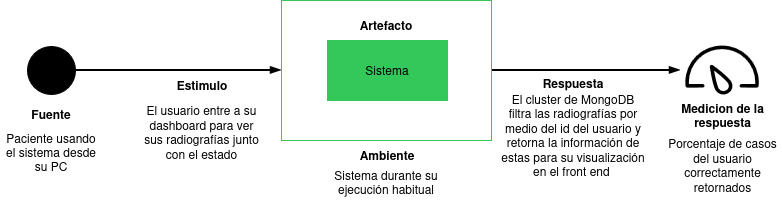
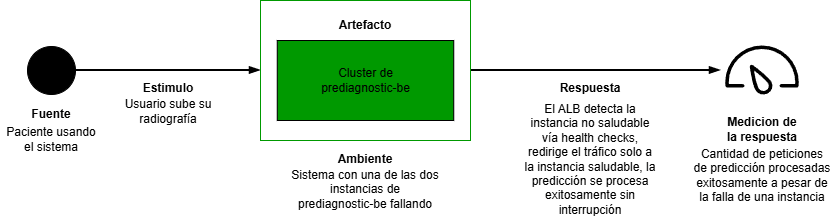
Cluster scenario fixed

diff --git a/p4/README.md b/p4/README.md
@@ -637,7 +637,7 @@ Tactic: Redundant spare
 
 **Applied Pattern:** Replication Pattern (Hot Spare)
 
-**Scenario 2: Cluster Pattern**
+**Scenario 2: Cluster Pattern (Active-Active)**
 
 <div align="center">
 
@@ -646,14 +646,14 @@ Tactic: Redundant spare
 </div>
 
 **Description:**
-- **Source (Fuente):** Patient using the system from his PC
-- **Stimulus (Estímulo):** User enters to his dashboard to see his radiographies and their states
-- **Artifact (Artefacto):** The system
-- **Environment (Ambiente):** System during the normal execution
-- **Response (Respuesta):** The MongoDB cluster filters the radipgraphies by user's id and returns the information to visualize it in the front end
-- **Response Measure (Medición de la respuesta):** Percentage of correctly returned cases
+- **Source (Fuente):** Patient using the application
+- **Stimulus (Estímulo):** User uploads their chest X-ray for pneumonia diagnosis while one of the two prediagnostic-be instances is down
+- **Artifact (Artefacto):** prediagnostic-be cluster (2 ECS Fargate tasks)
+- **Environment (Ambiente):** System with one of two prediagnostic-be instances failing.
+- **Response (Respuesta):** ALB detects unhealthy instance, routes traffic only to healthy instance, ECS launches replacement task, ML prediction processed successfully without user interruption
+- **Response Measure (Medición de la respuesta):** Number of prediction requests processed successfully despite single instance failure.
 
-**Applied Pattern:** Cluster Pattern
+**Applied Pattern:** Cluster Pattern (Active-Active)
 
 ##### **Scenario 3: Load Balancer with Removal From Service Tactic implementend**
 
@@ -691,23 +691,7 @@ Tactic: Reconfiguration
 
 **Applied Pattern:** Service Discovery Pattern
 
-**Scenario 5: Cluster pattern**
 
-<div align="center">
-
-![Service Discovery Pattern](./images/Copia%20de%20Escenario%20-%20cluster.png)
-
-</div>
-
-**Description:**
-- **Source (Fuente):** User using the aplication
-- **Stimulus (Estímulo):** User uploads a x-ray
-- **Artifact (Artefacto):** The system
-- **Environment (Ambiente):** The system with one of its prediagnostic-be nodes down
-- **Response (Respuesta):** The system works correctly with the upload of the x-ray and its prediction
-- **Response Measure (Medición de la respuesta):** Number of requests processed
-
-**Applied Pattern:** Cluster Pattern
 
 #### **Applied Architectural Tactics**
 
